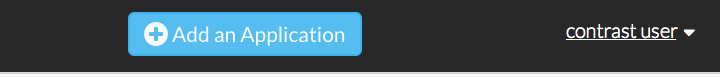
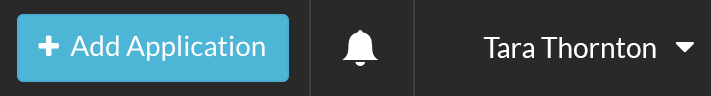
Updated AddApp images and article

diff --git a/content/user/teamserver/guide/application/AddingAnApplication.md b/content/user/teamserver/guide/application/AddingAnApplication.md
@@ -6,30 +6,38 @@ tags: "TeamServer application adding"
 
 ## Add Applications From Any Page
 
-You can access the **Application Wizard** from any page via a button in the top navigation.
+You can access the **Add Application Wizard** from any page by clicking the button in the top navigation.
 
 <a href="assets/images/KB3-f03_1.png" rel="lightbox" title="Add Application Button"><img class="thumbnail" src="assets/images/KB3-f03_1.png"/></a>
-
+<BR>
 
 ## Step 1: Download The Agent
 
-After choosing a language, you have the option to customize your settings by checking **Custom Agent Profile** before downloading the agent. Choose a name for your profile and if desired, configure HTTP Proxy settings by checking **Use HTTP Proxy**. Once a custom profile is created, you can re-select it later from the dropdown or click **Manage Profiles** to copy, rename and delete saved profiles. 
+After choosing a language, you have the option to customize your settings by checking **Custom Agent Profile** before downloading the agent. Choose a name for your profile and if desired, configure HTTP Proxy settings by checking **Use HTTP Proxy**. Once one or more custom profiles are created, you can select them from the dropdown or click **Manage Profiles** to copy, rename and delete saved profiles. 
 
-<a href="assets/images/KB3-f03_2.png" rel="lightbox" title="Clone Icon"><img class="thumbnail" src="assets/images/KB3-f03_2.png"/></a>
+<a href="assets/images/KB3-f03_2.png" rel="lightbox" title="Custom Profile"><img class="thumbnail" src="assets/images/KB3-f03_2.png"/></a>
 
+<a href="assets/images/KB3-f03_6.png" rel="lightbox" title="Manage Profiles"><img class="thumbnail" src="assets/images/KB3-f03_6.png"/></a>
+<BR>
 
 ## Step 2: Install On Your Server
 
 Select your container to view the installation instructions specific to the language and container you've selected.  This information is also available in our support documentation, and is linked here for your reference.
 
 <a href="assets/images/KB3-f03_3.gif" rel="lightbox" title="Container Selection"><img class="thumbnail" src="assets/images/KB3-f03_3.gif"/></a>
-
+<BR>
 
 ## Step 3: Restart Your Server
 
-Before you begin browsing an application, we've added an additional step to ensure that you remember to restart your server.
+Before you begin browsing an application, it is important to restart your server. We've added an additional step here to ensure that you remember to do so.
 
+<a href="assets/images/KB3-f03_4.png" rel="lightbox" title="Restart Server"><img class="thumbnail" src="assets/images/KB3-f03_4.png"/></a>
+<BR>
 
 ## Step 4: Browse Your Application
 
-In order to confirm that your agent was correctly installed, we display reported information from the server here.  Once you see information being updated, you may complete the wizard and begin browsing directly from the Application Overview page. 
+In order to confirm that your agent was correctly installed, we display reported information from the server.  Once you see this information being updated, you may complete the wizard and begin browsing directly from the **Application Overview** page. 
+
+<a href="assets/images/KB3-f03_5.png" rel="lightbox" title="Browse Application"><img class="thumbnail" src="assets/images/KB3-f03_5.png"/></a>
+
+
